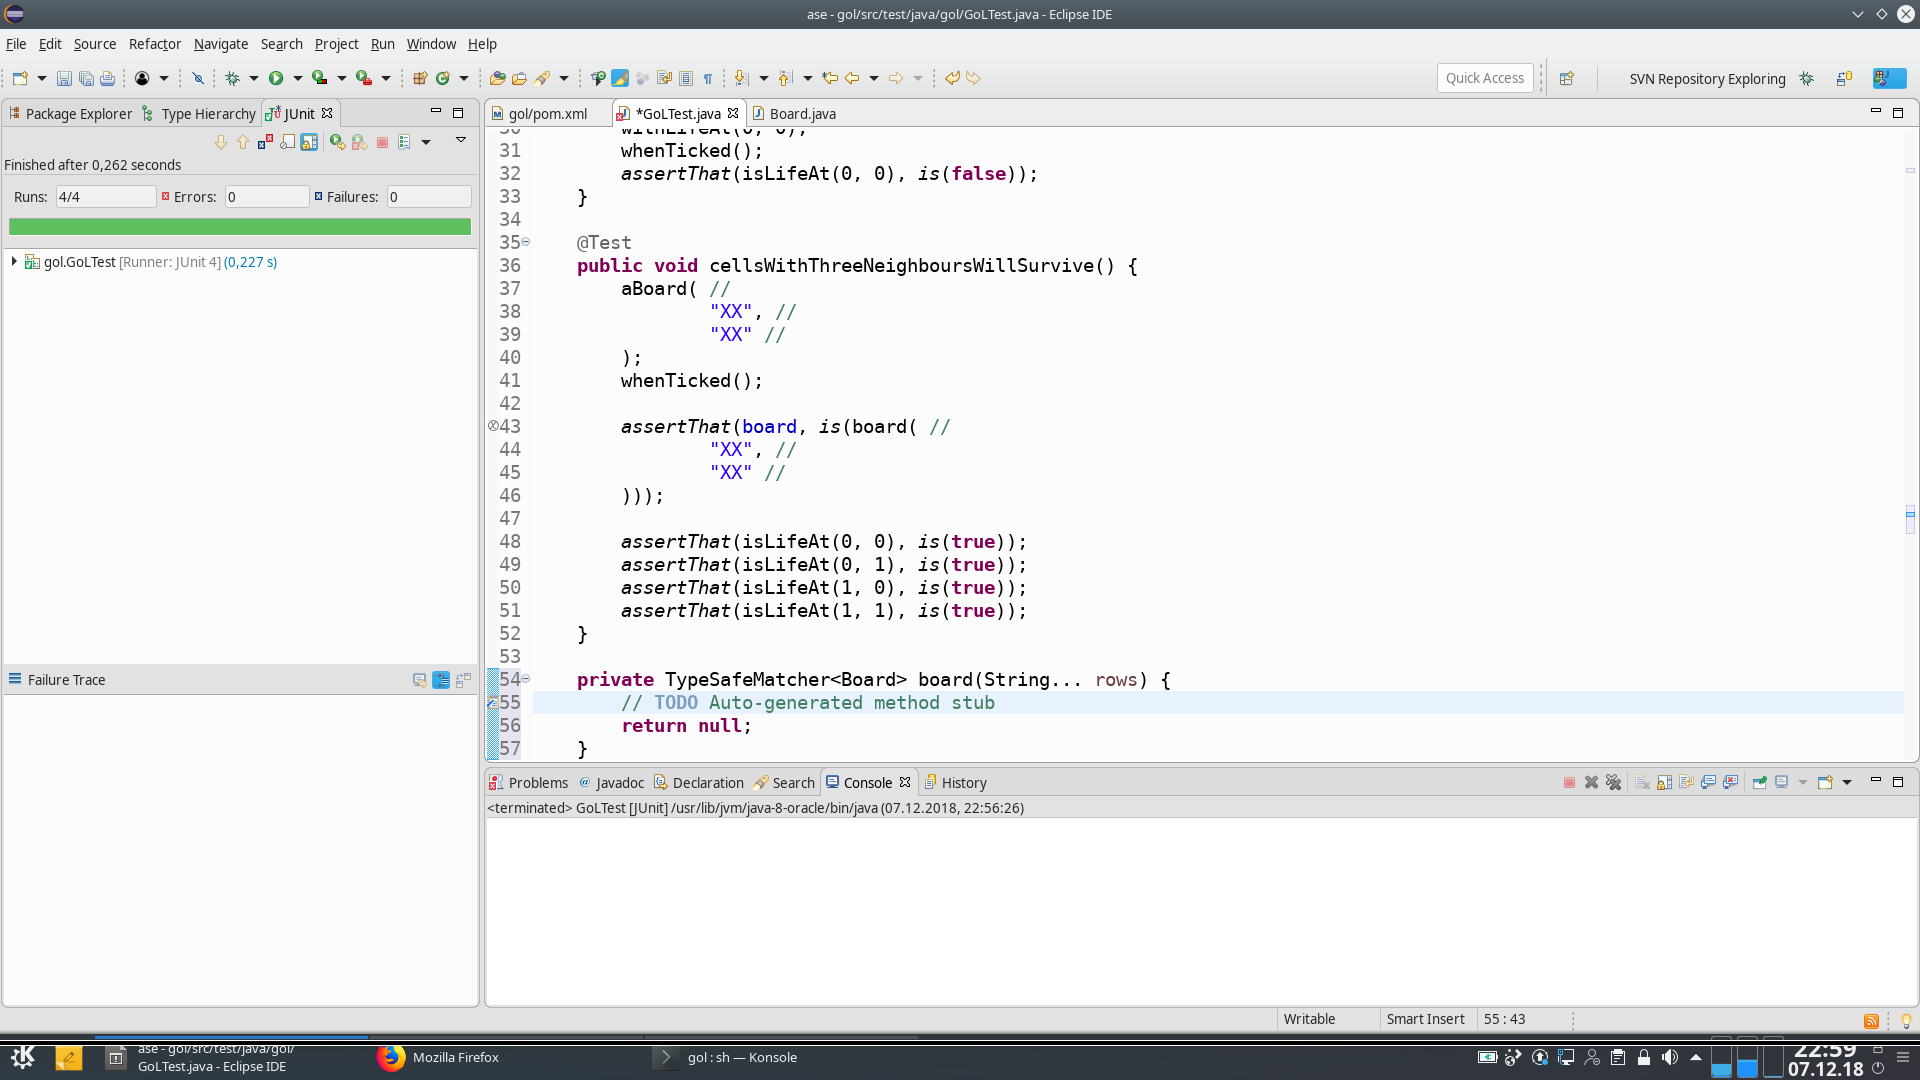
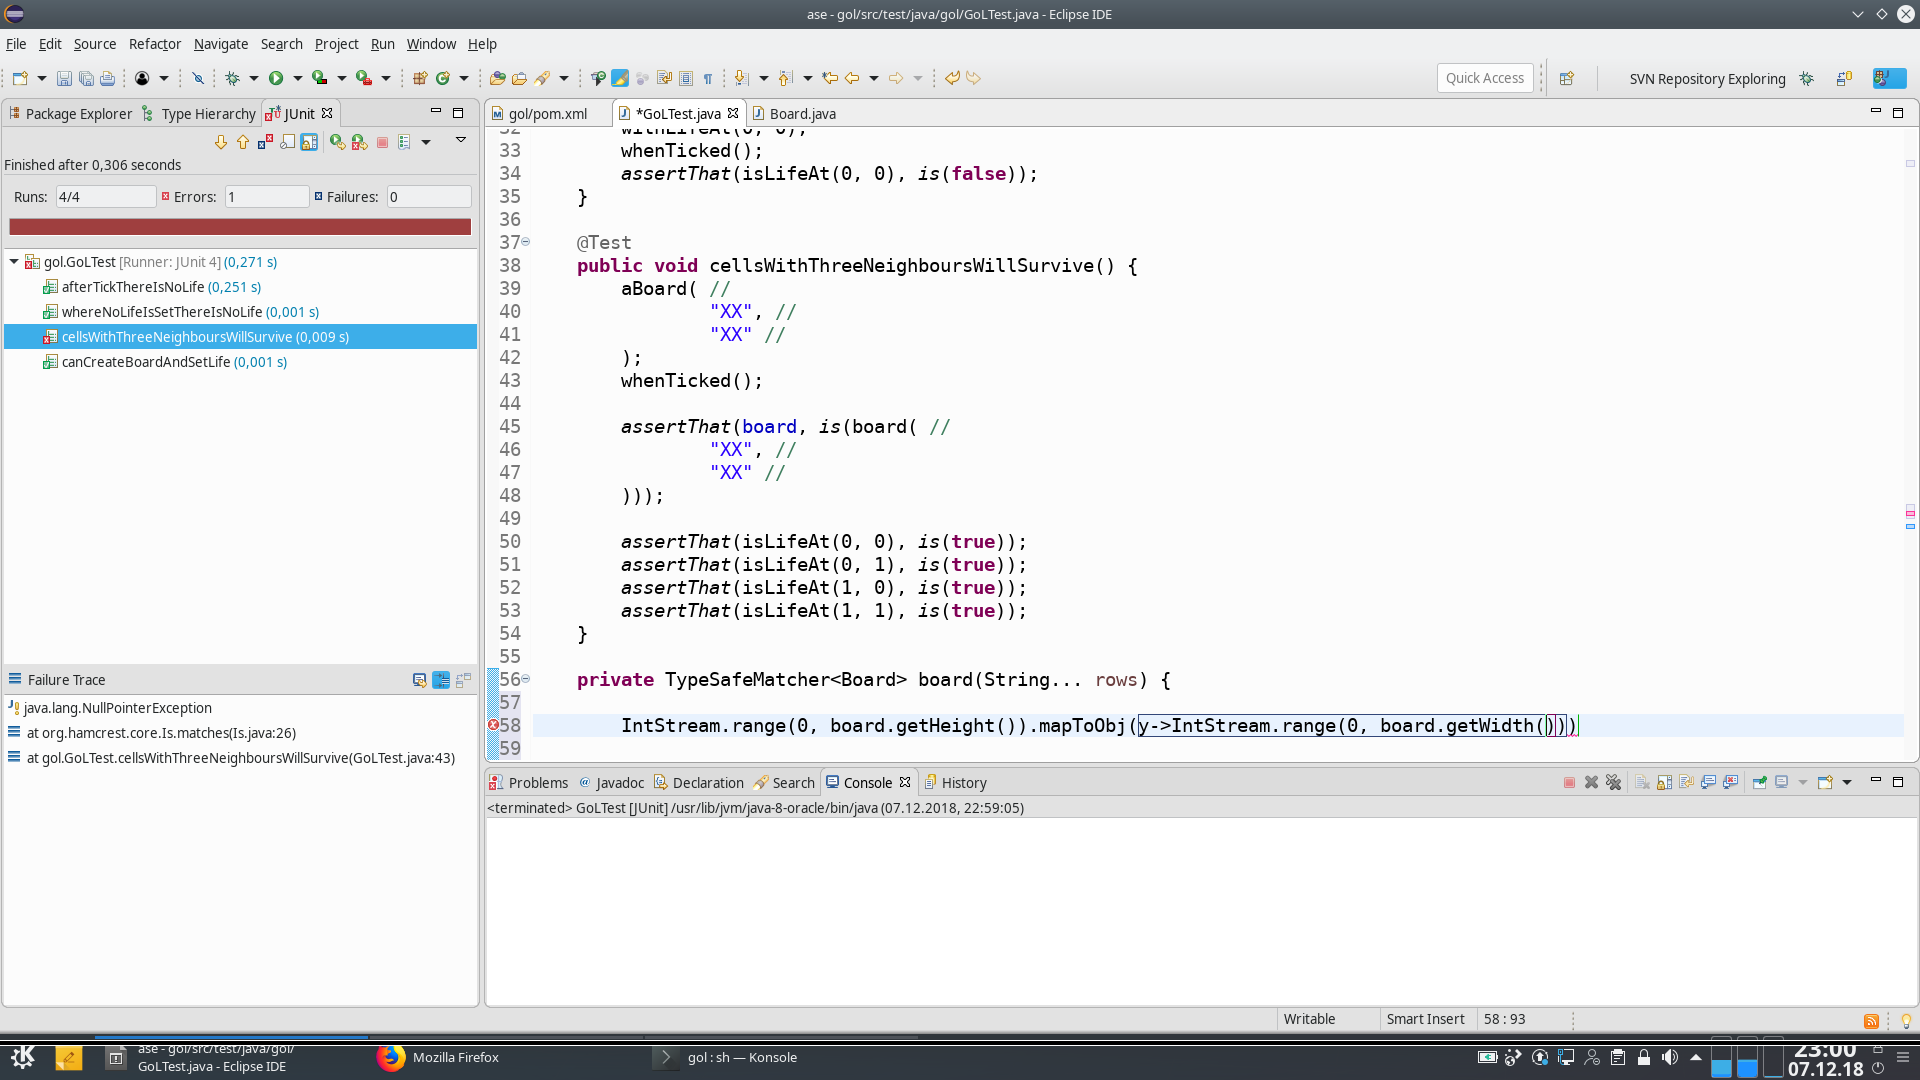
autocommit on change

diff --git a/src/test/java/gol/GoLTest.java b/src/test/java/gol/GoLTest.java
@@ -3,6 +3,8 @@ package gol;
 import static org.hamcrest.CoreMatchers.is;
 import static org.junit.Assert.assertThat;
 
+import java.util.stream.IntStream;
+
 import org.junit.Test;
 import org.junit.internal.matchers.TypeSafeMatcher;
 
@@ -52,6 +54,9 @@ public class GoLTest {
 	}
 
 	private TypeSafeMatcher<Board> board(String... rows) {
+		
+		IntStream.range(0, board.getHeight()).mapToObj(y->IntStream.range(0, board.getWidth()))
+		
 		// TODO Auto-generated method stub
 		return null;
 	}
